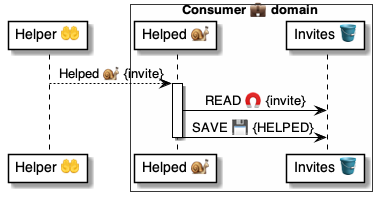
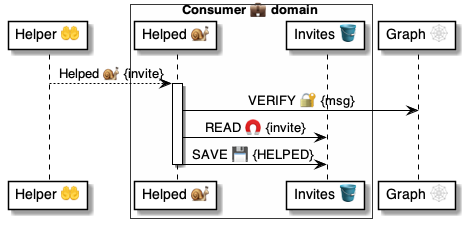
.

diff --git a/4 ⚙ Solution/41 🎭 Domain Roles/Consumers 💼/💼⌘ Consumer cmds/INFORM 📝/📝 INFORM 📃 script.md b/4 ⚙ Solution/41 🎭 Domain Roles/Consumers 💼/💼⌘ Consumer cmds/INFORM 📝/📝 INFORM 📃 script.md
@@ -26,6 +26,9 @@
     AllOf: Form
     Texts: Form
 
+# Create a hook
+- PUT|.UUID >> $hook:
+
 # Send the INFORM message
 - SEND:
     Header:
@@ -34,11 +37,15 @@
     Body:
         Chat: $.Chat.Chat
         Form: $Form
+        Hook: $hook
+
+# Wait for the confirmation
+- WAIT|$hook
 ```
 
 Uses||
 |-|-
-| [Commands ⌘](<../../../../35 💬 Chats/Scripts 📃/Command ⌘.md>) | [`ASSERT`](<../../../../37 Scripts 📃/📃 Commands ⌘/⌘ for holders 🧠/ASSERT 🚦/🚦 ASSERT ⌘ cmd.md>) [`SEND`](<../../../../37 Scripts 📃/📃 Commands ⌘/⌘ for messages 📨/SEND 📬/📬 SEND ⌘ cmd.md>)
+| [Commands ⌘](<../../../../35 💬 Chats/Scripts 📃/Command ⌘.md>) | [`ASSERT`](<../../../../37 Scripts 📃/📃 Commands ⌘/⌘ for holders 🧠/ASSERT 🚦/🚦 ASSERT ⌘ cmd.md>) [`PUT`](<../../../../37 Scripts 📃/📃 Commands ⌘/⌘ for holders 🧠/PUT ⬇/⬇ PUT ⌘ cmd.md>) [`SEND`](<../../../../37 Scripts 📃/📃 Commands ⌘/⌘ for messages 📨/SEND 📬/📬 SEND ⌘ cmd.md>) [`WAIT`](<../../../../37 Scripts 📃/📃 Commands ⌘/⌘ for async/WAIT 🧘/🧘 WAIT ⌘ cmd.md>)
 | [Messages 📨](<../../../../30 🧩 Data/Messages 📨/📨 Message/📨 Message.md>) | [`Inform@Broker` 🐌 msg](<../../../../20 🧑🦰 UI/Brokers 🤵/🤵📨 Broker msgs/Share 💼 Inform 💼🐌🤵/🤵 Inform 🐌 msg.md>)
 | [Holder 🧠](<../../../../35 💬 Chats/Scripts 📃/Holder 🧠.md>) | [`.Chat`](<../../../../37 Scripts 📃/📃 Holders 🧠/System holders 🔩/$.Chat 💬/💬 $.Chat 🧠 holder.md>)  [`$.Inputs`](<../../../../37 Scripts 📃/📃 Holders 🧠/System holders 🔩/$.Inputs 🏃/▶ $.Inputs 🧠 holder.md>)
 |

diff --git a/4 ⚙ Solution/41 🎭 Domain Roles/Consumers 💼/💼📨 Consumer msgs/Informed 🤵🐌💼/💼 Informed 📃 handler.md b/4 ⚙ Solution/41 🎭 Domain Roles/Consumers 💼/💼📨 Consumer msgs/Informed 🤵🐌💼/💼 Informed 📃 handler.md
@@ -1,29 +1,25 @@
-# 💼 Helped 📃 handler
+# 💼 Informed 📃 handler
 
 > Purpose
 
-* [`Script`](<../../../../35 💬 Chats/Scripts 📃/Script 📃.md>) that implements the [`Helped@Consumer` 🐌 msg](<💼 Helped 🐌 msg.md>)
-
+* [`Script`](<../../../../35 💬 Chats/Scripts 📃/Script 📃.md>) that implements the [`Informed@Consumer` 🐌 msg](<💼 Informed 🐌 msg.md>)
 <br/>
 
 ## Flow
 
-![alt text](<💼 Helped ⚙ uml.png>)
-
-<br/>
+![alt text](<💼 Informed ⚙ uml.png>)
 
 ## Script
 
 ```yaml
-📃 Helped@Consumer:
+📃 Informed@Consumer:
 
-# Verify the message
-- VERIFY|$.Msg
+
 
 # Assert the message
 - ASSERT|$.Msg:
-    AllOf: Invite, Help
-    UUID: Invite
+    AllOf: Hook
+    UUIDs: Hook
 
 # Resolve the callback
 - READ >> $invite:

diff --git a/4 ⚙ Solution/45 🤲 Helper domains/Graphs 🕸/🕸📨 Graph msgs/👥🚀🕸 Form/🕸 Form 🚀 call.md b/4 ⚙ Solution/45 🤲 Helper domains/Graphs 🕸/🕸📨 Graph msgs/👥🚀🕸 Form/🕸 Form 🚀 call.md
@@ -63,3 +63,13 @@ Steps:
 |
 
 <br/>
+
+## FAQ
+
+1. **How to define a Form on a domain [Manifest 📜](<../../../../30 🧩 Data/Manifests 📜/📜 Manifest/📜 Manifest.md>)?**
+
+    See the [`INFORM`](<../../../../41 🎭 Domain Roles/Consumers 💼/💼⌘ Consumer cmds/INFORM 📝/📝 INFORM ⌘ cmd.md>) command.
+
+    ---
+    <br/>
+
